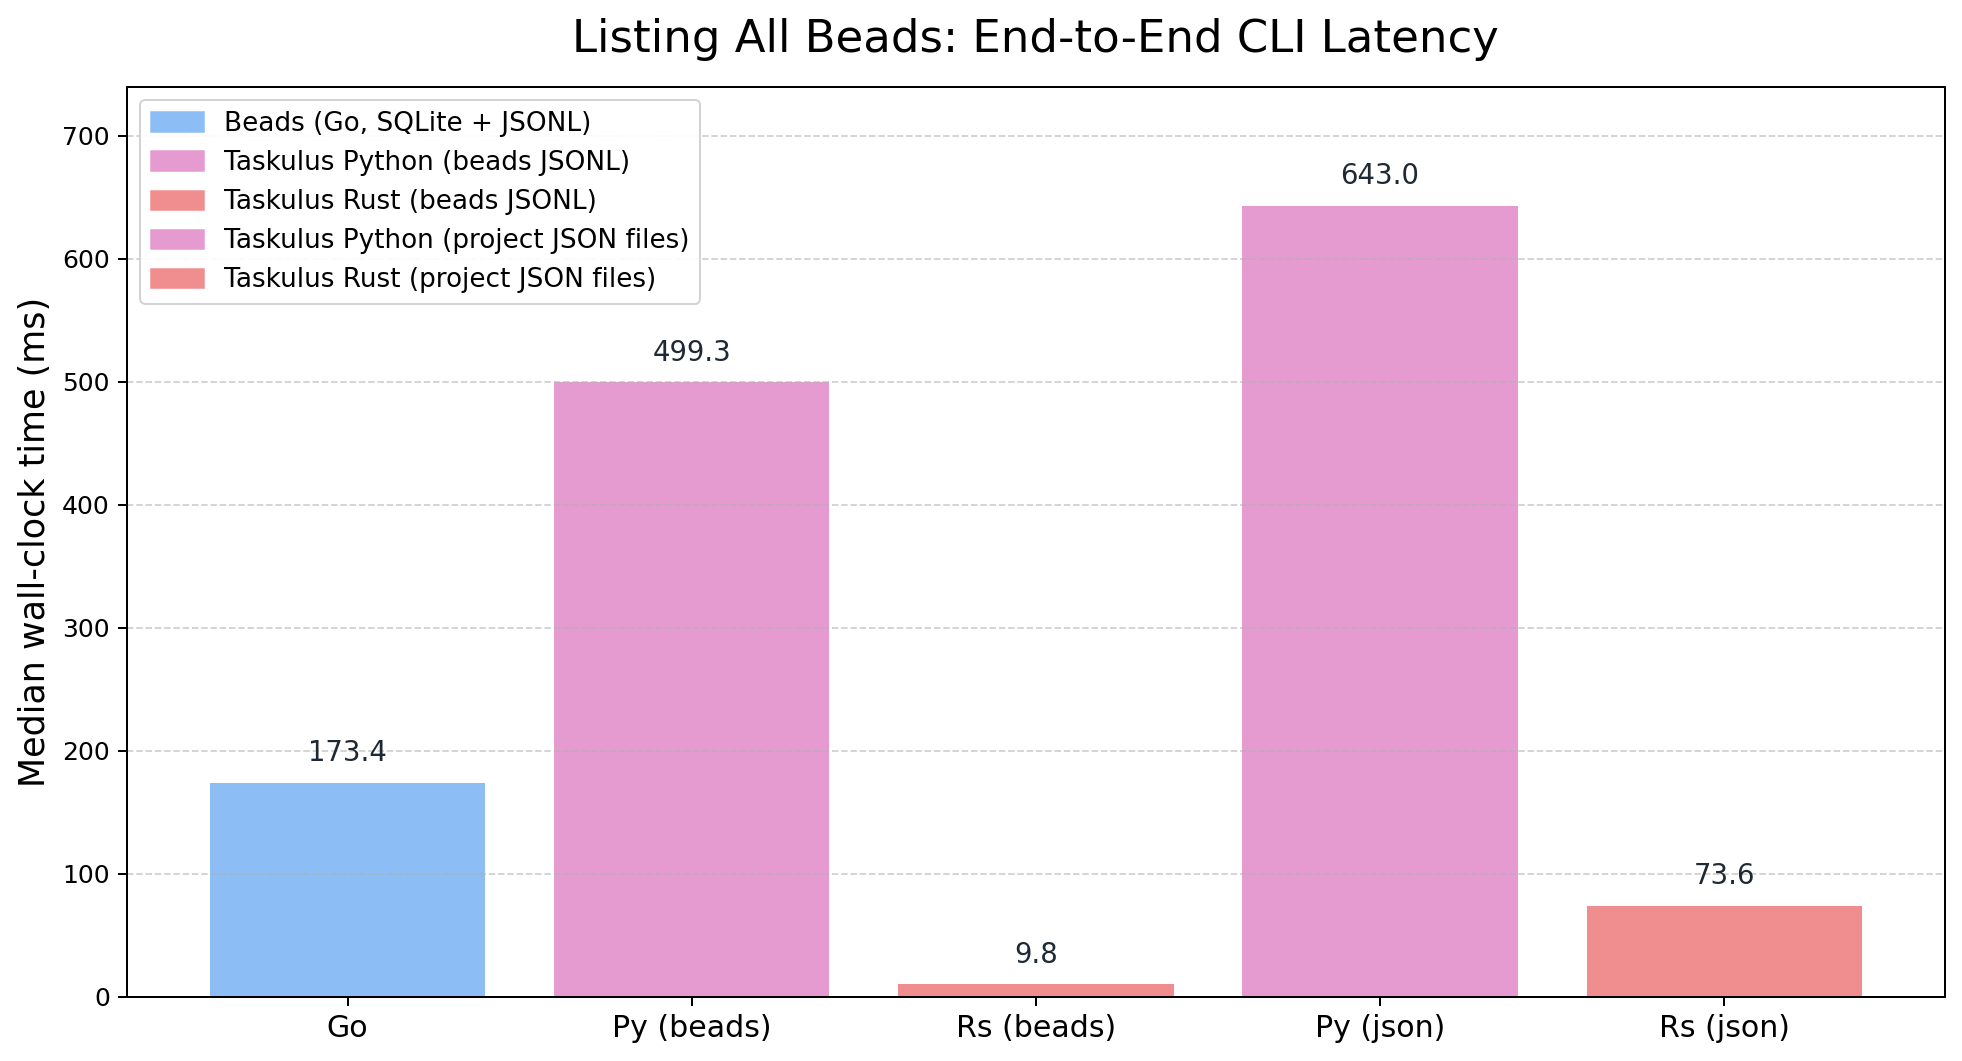
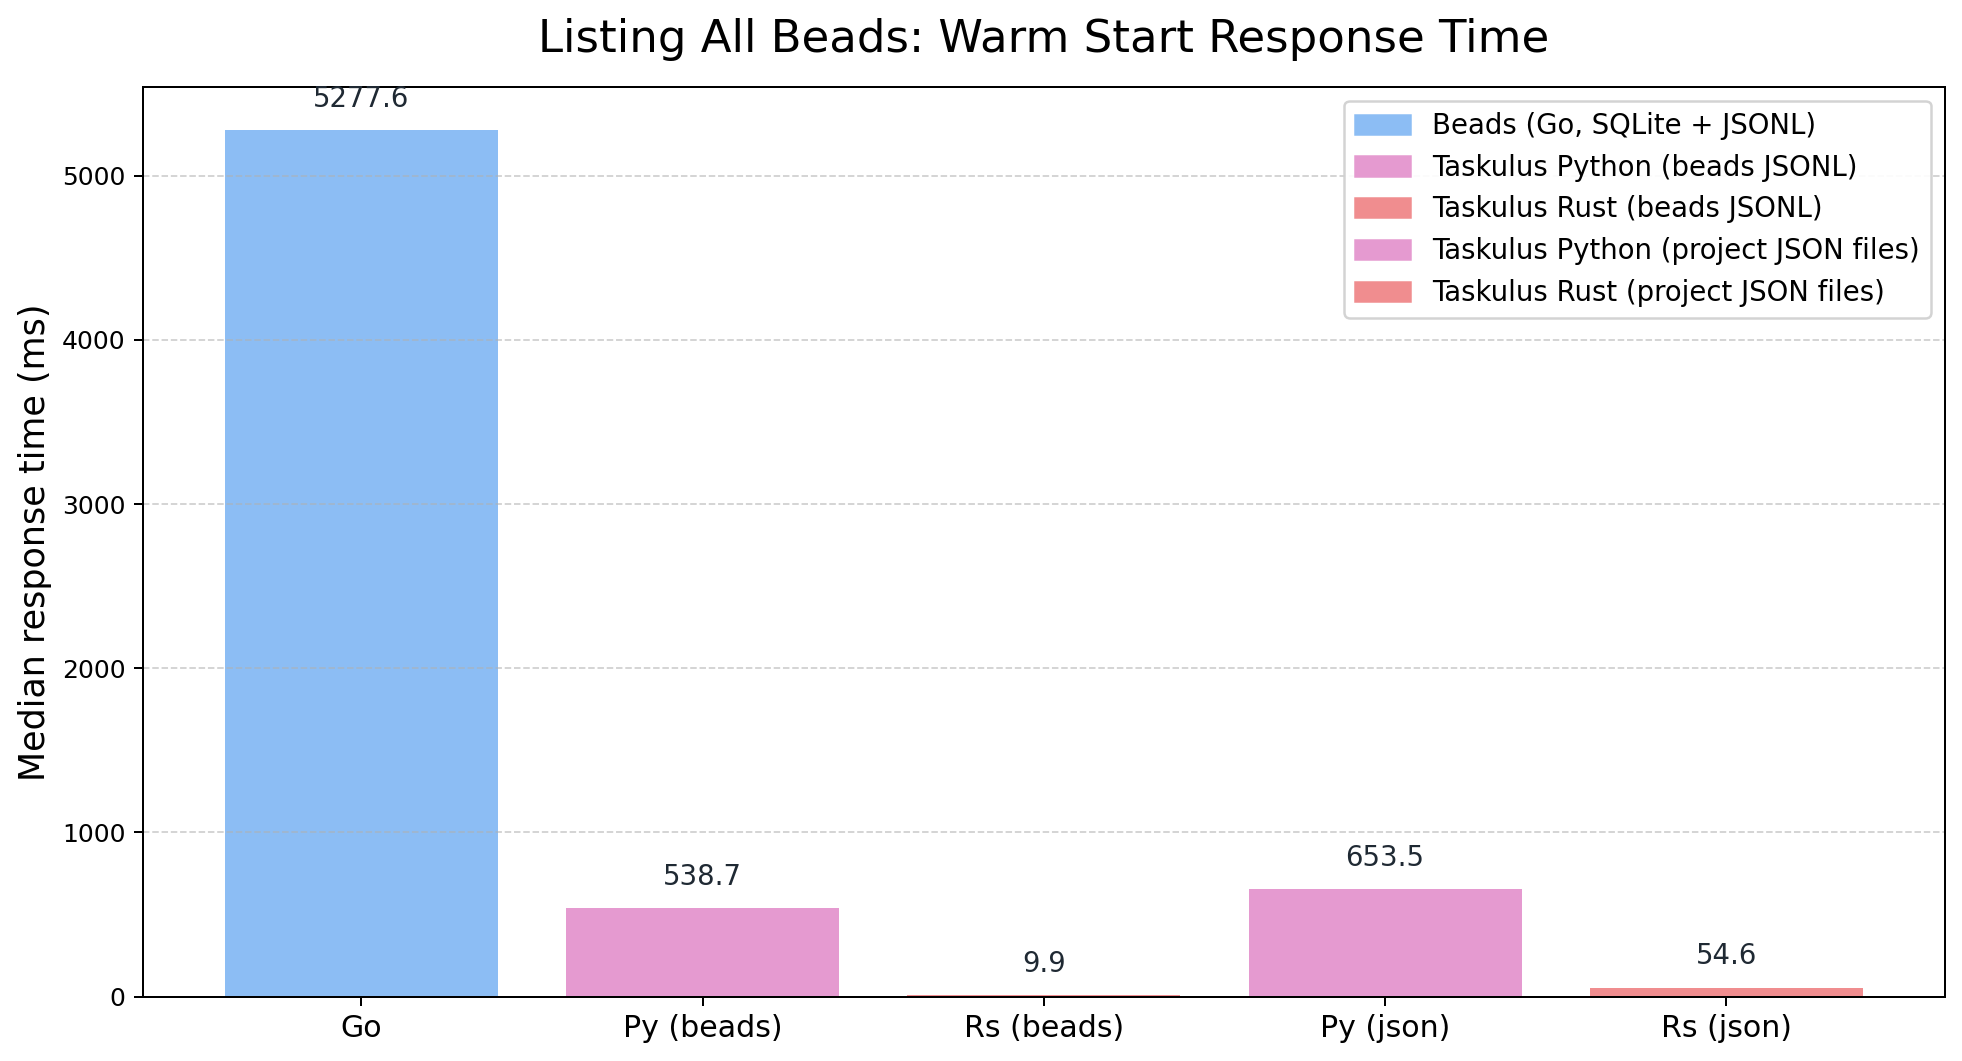
Document warm vs cold response times for Beads listing

diff --git a/docs/ARCHITECTURE.md b/docs/ARCHITECTURE.md
@@ -20,13 +20,12 @@ We benchmarked end-to-end “list all beads” latency using the Beads project i
 
 The results show that fast listing does not require a SQLite sidecar. Taskulus streams directly from JSON files while matching or beating the SQLite-backed Beads path, removing an entire class of synchronization failures and simplifying the mental model for operators and contributors.
 
-![Beads CLI Listing Latency](images/beads_cli_benchmark.png)
+![Beads CLI Listing Response Time (warm)](images/beads_cli_benchmark.png)
 
-Median timings (ms) for convenience:
-- Beads (Go, SQLite + JSONL): 173.4
-- Taskulus Python — Beads JSONL: 499.3
-- Taskulus Rust — Beads JSONL: 9.8 (first cold run was higher; median reflects steady state)
-- Taskulus Python — Project JSON: 643.0
-- Taskulus Rust — Project JSON: 73.6
+Warm-start median response times (ms): Go 5277.6; Python — Beads JSONL 538.7; Rust — Beads JSONL 9.9; Python — Project JSON 653.5; Rust — Project JSON 54.6.
 
-Takeaway: Removing the SQLite layer eliminates sync complexity and improves portability without sacrificing speed for the core listing workflow.
+![Beads CLI Cold vs Warm Response Time](images/beads_cli_benchmark_warm_cold.png)
+
+Cold/Warm medians (stacked bars, cold over warm): Go 197.6/5277.6; Python — Beads 566.1/538.7; Rust — Beads 11.9/9.9; Python — JSON 648.3/653.5; Rust — JSON 92.4/54.6. Warm runs keep the Taskulus daemon resident; cold runs disable it and clear caches. Go/Beads warm mode jumps because its SQLite daemon import dominates the second pass.
+
+Takeaway: direct JSON reads keep response time low in steady state without a secondary database. The SQLite sidecar adds variance and operational complexity while providing little benefit for the listing path.

diff --git a/README.md b/README.md
@@ -113,9 +113,13 @@ We benchmarked real data from the Beads project (836 issues) to measure end-to-e
 
 Key takeaway: direct JSON reads are fast enough that a SQLite sidecar solves a problem we do not have. Removing it simplifies operations, eliminates sync fragility, and keeps deployments portable.
 
-![Beads CLI Listing Latency](docs/images/beads_cli_benchmark.png)
+![Beads CLI Listing Response Time (warm)](docs/images/beads_cli_benchmark.png)
 
-Median timings (ms): Go 173.4; Python — Beads JSONL 499.3; Rust — Beads JSONL 9.8 (first cold run was higher); Python — Project JSON 643.0; Rust — Project JSON 73.6.
+Warm-start median response times (ms): Go 5277.6; Python — Beads JSONL 538.7; Rust — Beads JSONL 9.9; Python — Project JSON 653.5; Rust — Project JSON 54.6.
+
+![Beads CLI Cold vs Warm Response Time](docs/images/beads_cli_benchmark_warm_cold.png)
+
+Cold/Warm medians (ms, cold over warm shown as stacked bars): Go 197.6/5277.6; Python — Beads 566.1/538.7; Rust — Beads 11.9/9.9; Python — JSON 648.3/653.5; Rust — JSON 92.4/54.6. Warm runs reuse the resident daemon for Taskulus; cold runs force `TASKULUS_NO_DAEMON=1` and clear caches each iteration. Go/Beads warm path spikes because its SQLite daemon import dominates the second run.
 
 ## Project Structure
 
